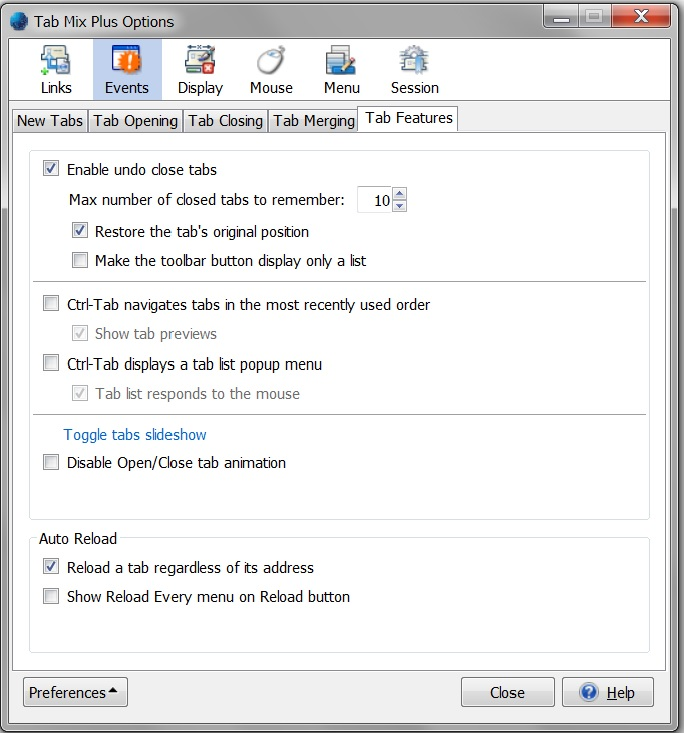
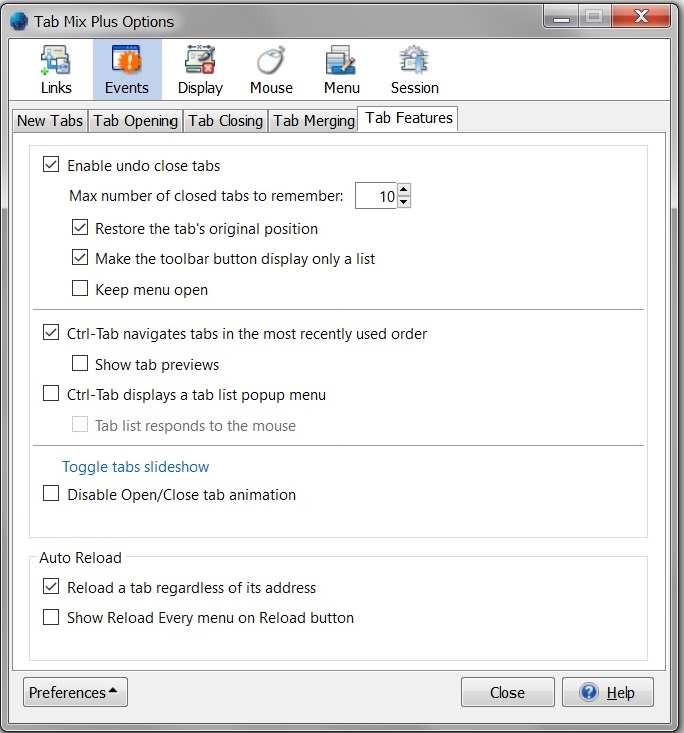
Add help for 'keep menu open'

diff --git a/help/data/events-tab-features.html b/help/data/events-tab-features.html
@@ -12,18 +12,25 @@
               <li><span class="default">Restore the tab's original position</span>
               (tabs are restored to their position when closed)</li>
               <li>Make the toolbar button display only a list</li>
+              <p class="comment indent" style="width:62%;">
+                <img src="help/images/closed-list-button.jpg" alt="image" style="width:40px;">
+                If checked, when the <b>Closed Tabs List</b> button is clicked, a menu will open
+                with recently closed tabs list. An arrow appears on the button next to the
+                label indicating that a menu is present.<br><br>
+                <img src="help/images/closed-list-menu-button.jpg" alt="image" style="width:55px;">
+                When this option is not checked, the button will restore the last closed tab
+                when clicked and an arrow will be displayed. A click on the arrow opens a menu
+                with recently closed tabs list.
+              </p>
+              <li>Keep menu open</li>
+              <p class="comment indent" style="width:62%;">
+                Enabling 'Keep menu open' leave the menu open after deleting or opening closed tab,
+                in order to allow you to do several commands in a row without having to open the menu every time.
+                To close the menu, click with the mouse outside the menu.
+                <img src="help/images/keep_menu_open.png" alt="image" style="float:none; width:100%; margin-left:0;">
+              </p>
             </ul>
           </ul>
-          <p class="comment indent">
-            <img src="help/images/closed-list-button.jpg" alt="image" style="width:40px;">
-            If checked, when the <b>Closed Tabs List</b> button is clicked, a menu will open
-            with recently closed tabs list. An arrow appears on the button next to the
-            label indicating that a menu is present.<br><br>
-            <img src="help/images/closed-list-menu-button.jpg" alt="image" style="width:55px;">
-            When this option is not checked, the button will restore the last closed tab
-            when clicked and an arrow will be displayed. A click on the arrow opens a menu
-            with recently closed tabs list.
-          </p>
           <p class="comment indent">
             <b>Tips</b>:<br>
             Use middle mouse click on <b>Closed Tabs List</b> button to restore all closed tabs at once.<br>
